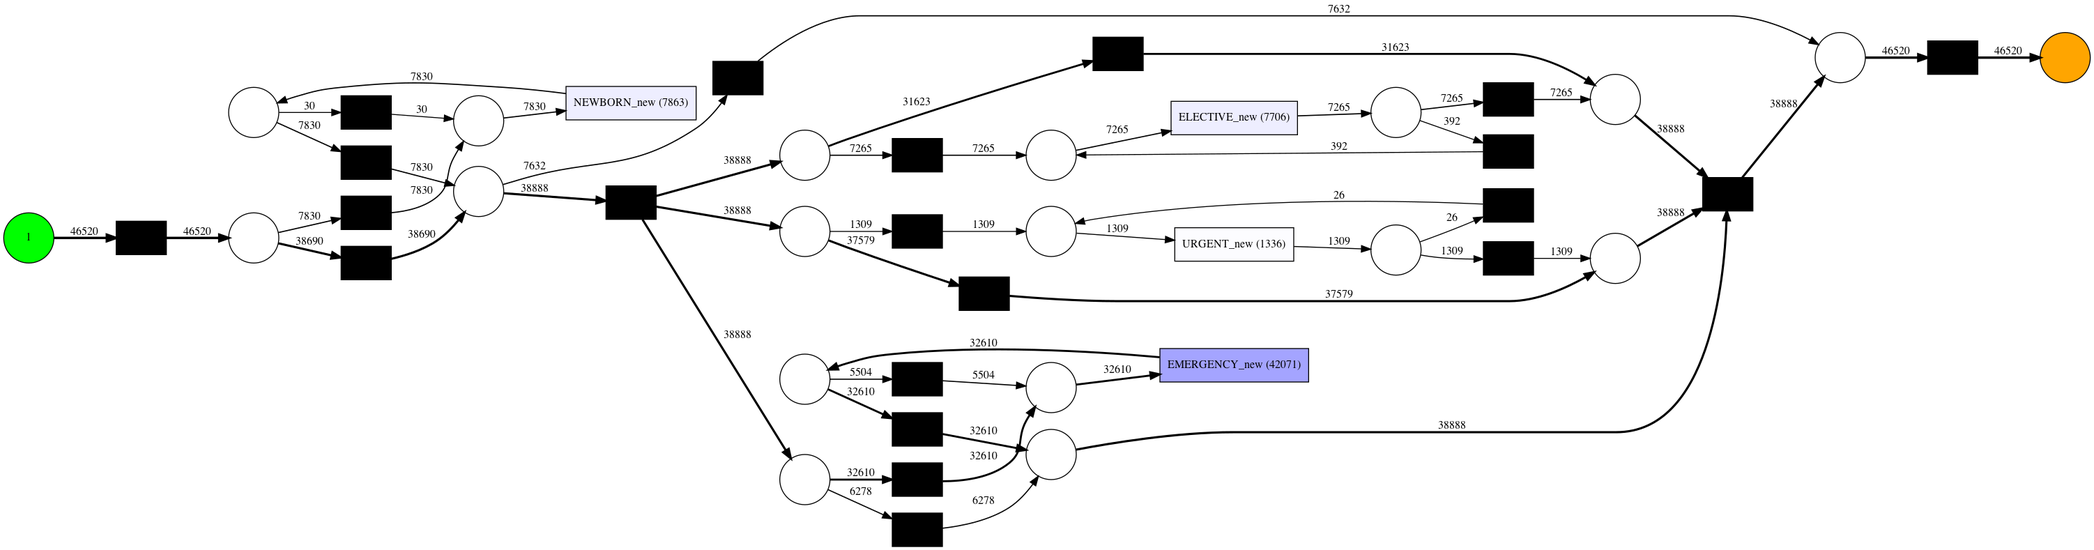
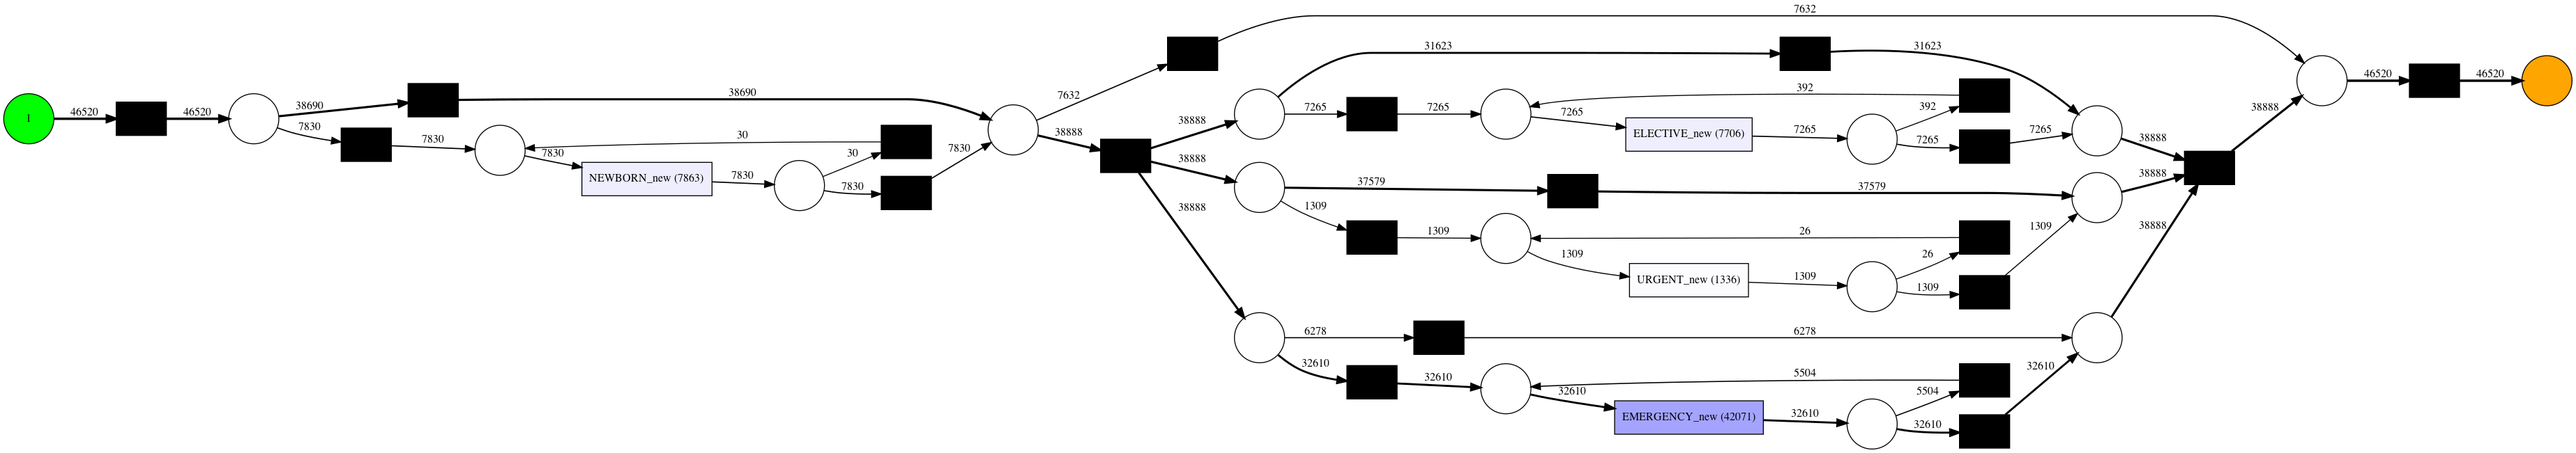
change report file process mining evaluate

diff --git a/synthetic_data_generating/models/process.py b/synthetic_data_generating/models/process.py
@@ -29,6 +29,7 @@ import os
 
 class Process:
     def __init__(self, event_data):
+        self.file = open("log/log.txt","a+")
         df = pm4py.format_dataframe(event_data, case_id='id', activity_key='event_type', timestamp_key='time')
         #df = dataframe_utils.convert_timestamp_columns_in_df(df)
         df["case:concept:name"]=df["case:concept:name"].astype("int64")
@@ -49,9 +50,9 @@ class Process:
         #
         #
         #self.tree = inductive_miner.apply_tree(self.event_data)
-        #tree = inductive_miner.apply_tree(self.event_data)
-        #gviz = pt_visualizer.apply(tree)
-        #pt_visualizer.view(gviz)
+        tree = inductive_miner.apply_tree(self.event_data)
+        gviz = pt_visualizer.apply(tree)
+        pt_visualizer.save(gviz,"image/process_tree.png")
         
         #self.net, self.initial_marking, self.final_marking=inductive_miner.apply(self.event_data)
         
@@ -84,7 +85,7 @@ class Process:
         #simulated_log = simulator.apply(self.net, self.initial_marking,self.final_marking, variant=simulator.Variants.BASIC_PLAYOUT, parameters={simulator.Variants.BASIC_PLAYOUT.value.Parameters.CASE_ID_KEY: n})
         simulated_log = simulator.apply(self.net, self.initial_marking,self.final_marking, variant=simulator.Variants.BASIC_PLAYOUT, parameters={simulator.Variants.BASIC_PLAYOUT.value.Parameters.NO_TRACES: n})
         self.draw_inductive_frequency(self.net, self.initial_marking,self.final_marking,simulated_log,"image/simulated_inductive_frequency.png")
-        
+        self.foot_print(simulated_log)
 
         # from pm4py.objects.process_tree import semantics
         # simulated_log = semantics.generate_log(self.tree, no_traces=100)
@@ -96,7 +97,6 @@ class Process:
         # parameters[montecarlo_simulation.Variants.PETRI_SEMAPH_FIFO.value.Parameters.PARAM_MAX_THREAD_EXECUTION_TIME] = 5
         # simulated_log, res = montecarlo_simulation.apply(self.event_data, self.net, self.initial_marking,self.final_marking, parameters=parameters)
         log = self.event_data
-        #log = xes_importer.apply(os.path.join("demo", "input_data", "running-example.xes"))
         dfg = dfg_discovery.apply(log, variant=dfg_discovery.Variants.FREQUENCY)
 
         sa = start_activities.get_start_activities(log)
@@ -112,18 +112,14 @@ class Process:
         from pm4py.algo.conformance.tokenreplay.algorithm import Variants
 
         parameters = {}
-        #parameters[montecarlo_simulation.Variants.PETRI_SEMAPH_FIFO.value.Parameters.PARAM_ENABLE_DIAGNOSTICS] = False
         parameters[montecarlo_simulation.Variants.PETRI_SEMAPH_FIFO.value.Parameters.PARAM_NUM_SIMULATIONS] = n
-        #parameters[montecarlo_simulation.Variants.PETRI_SEMAPH_FIFO.value.Parameters.PARAM_MAX_THREAD_EXECUTION_TIME] = 5
-        # perform the Montecarlo simulation with the arrival rate specified (the simulation lasts 5 secs)
-        parameters[montecarlo_simulation.Variants.PETRI_SEMAPH_FIFO.value.Parameters.PARAM_CASE_ARRIVAL_RATIO] = 10800
+        parameters[montecarlo_simulation.Variants.PETRI_SEMAPH_FIFO.value.Parameters.PARAM_CASE_ARRIVAL_RATIO] = ratio
         simulated_log, res = montecarlo_simulation.apply(log,net, im, fm , parameters=parameters)
-        #print("\n(Montecarlo - Petri net) case arrival ratio specified by the user")
-        #print(res["median_cases_ex_time"])
         print(res["total_cases_time"])
         net, initial_marking, final_marking = inductive_miner.apply(simulated_log)
         self.draw_inductive_frequency(net, initial_marking, final_marking,simulated_log,"image/simulated_dfg_inductive_frequency.png")
-        
+        self.foot_print(simulated_log)
+
         simulated_log = log_conversion.apply(simulated_log, variant=log_conversion.TO_DATA_FRAME)
         simulated_log = simulated_log.rename(columns={constants.CASE_CONCEPT_NAME:"id", xes_constants.DEFAULT_NAME_KEY:"event_type",
                              xes_constants.DEFAULT_TIMESTAMP_KEY:"time"})
@@ -149,9 +145,9 @@ class Process:
         #pm4py.view_dfg(dfg, start_activities, end_activities)
         start_activities = pm4py.get_start_activities(log)
         end_activities = pm4py.get_end_activities(log)
-        print("Start activities: {}\nEnd activities: {}".format(start_activities, end_activities))
+        self.file.write("Start activities: {}\nEnd activities: {}\n".format(start_activities, end_activities))
         fitness = replay_fitness_evaluator.apply(log, self.net, self.initial_marking, self.final_marking, variant=replay_fitness_evaluator.Variants.TOKEN_BASED)
-        print(fitness)
+        self.file.write("fitness:{}\n".format(fitness))
 
     def foot_print_dataframe(self, df_log):
         df = pm4py.format_dataframe(df_log, case_id='id', activity_key='event_type', timestamp_key='time')
@@ -177,36 +173,37 @@ class Process:
 
         fitness = evaluation.fp_fitness(fp_log, fp_simulation_data_log, conf_result)
         precision = evaluation.fp_precision(fp_log, fp_simulation_data_log)
-        # print("precision:{},fitness:{},conf_result:{}".format(precision,fitness,conf_result))
+        self.file.write("fp:precision:{},fitness:{},conf_result:{}\n".format(precision,fitness,conf_result))
         #end foot print evaluate
         #ALIGNMENT_BASED evaluate
         fitness = replay_fitness_evaluator.apply(log,self.net, self.initial_marking, self.final_marking, variant=replay_fitness_evaluator.Variants.TOKEN_BASED)
-        print("TOKEN_BASED.fitness:{}".format(fitness))
-        fitness = replay_fitness_evaluator.apply(log,self.net, self.initial_marking, self.final_marking, variant=replay_fitness_evaluator.Variants.ALIGNMENT_BASED)
-        print("ALIGNMENT_BASED.fitness:{}".format(fitness))
+        self.file.write("TOKEN_BASED.fitness:{}\n".format(fitness))
         #end ALIGNMENT_BASED evaluate
 
         #Precision
         prec = precision_evaluator.apply(log,self.net, self.initial_marking, self.final_marking, variant=precision_evaluator.Variants.ETCONFORMANCE_TOKEN)
-        print("ETCONFORMANCE_TOKEN.prec:{}".format(prec))
-        prec = precision_evaluator.apply(log,self.net, self.initial_marking, self.final_marking, variant=precision_evaluator.Variants.ALIGN_ETCONFORMANCE)
-        print("ALIGN_ETCONFORMANCE.prec:{}".format(prec))
+        self.file.write("prec:{}\n".format(prec))
         #end Precision
         #Generalization
         from pm4py.algo.evaluation.generalization import evaluator as generalization_evaluator
         gen = generalization_evaluator.apply(log, self.net, self.initial_marking, self.final_marking)
+        self.file.write("gen:{}\n".format(gen))
         #end Generalization
         #Simplicity
         from pm4py.algo.evaluation.simplicity import evaluator as simplicity_evaluator
         simp = simplicity_evaluator.apply(self.net)
+        self.file.write("simp:{}\n".format(simp))
         #end Simplicity
         
         #Earth Mover Distance
         from pm4py.objects.log.importer.xes import importer as xes_importer
         from pm4py.statistics.variants.log import get as variants_module
+        language = variants_module.get_language(self.event_data)
+        self.file.write("source:{}\n".format(language))
         language = variants_module.get_language(log)
-        print(language)
+        self.file.write("simulation:{}\n".format(language))
         #end Earth Mover Distance
+        self.file.flush()
 
 if __name__ == "__main__":
     #event_data = importCSV("running-example.csv")

diff --git a/synthetic_data_generating/generator.py b/synthetic_data_generating/generator.py
@@ -108,5 +108,6 @@ if __name__ == '__main__':
 
     g = Generator(join(base_path, '../demo/one_to_one'), join(base_path, '../demo/one_to_many'), config)
     g.train()
-    a, b = g.generate(10)
+    a, b = g.generate(10000)
+    
     print(1)

diff --git a/report.md b/report.md
@@ -54,7 +54,7 @@ Data for patients can be divived into two primary categories.
 * The similarity between the generated data and the training data can be evaluated through js divergence. The value is between 0 and 1, and the exact same calculation result is 0. There are int type data and float type data in the training data.  
 * For the generation of category data, data pre-processing and post-processing are required. For example, A, B, and C need to be converted into 1, 2, and 3 first, and then trained with GAN to convert the generated data into A, B and C according to Mapping relations.
 
-![image](gan_network.png)
+![image](image/gan_network.png)
 
 ### Clinical events data
 
@@ -70,13 +70,15 @@ Process Discovery algorithms want to find a suitable process model that describe
 
 In the following, we made up an overview to visualize the advantages and disadvantages of the mining algorithms.
 
-| Alpha                                               | Alpha+                                              | Heuristic                        | Inductive                          |
-| --------------------------------------------------- | --------------------------------------------------- | -------------------------------- | ---------------------------------- |
-| Cannot handle loops of length one and length two    | Can handle loops of length one and length two       | Takes frequency into account     | Can handle invisible tasks         |
-| Invisible and duplicated tasks cannot be discovered | Invisible and duplicated tasks cannot be discovered | Detects short loops              | Model is sound                     |
-| Discovered model might not be sound                 | Discovered model might not be sound                 | Does not guarantee a sound model | Most used process mining algorithm |
+| Alpha                                               | Alpha+                                              | Heuristic                        | Inductive                              |
+| --------------------------------------------------- | --------------------------------------------------- | -------------------------------- | -------------------------------------- |
+| Cannot handle loops of length one and length two    | Can handle loops of length one and length two       | Takes frequency into account     | Can handle invisible tasks             |
+| Invisible and duplicated tasks cannot be discovered | Invisible and duplicated tasks cannot be discovered | Detects short loops              | **Model is sound**                     |
+| Discovered model might not be sound                 | Discovered model might not be sound                 | Does not guarantee a sound model | **Most used process mining algorithm** |
 
-Clinical events have loops we choose **Inductive** miner algorithms.
+There may be multiple cycles in clinical events. In order to ensure the reliability of the algorithm, we choose to the **inductive** miner algorithm.
+
+
 
 ##### Process models structures
 
@@ -86,7 +88,7 @@ Process models modeled using Petri nets have a well-defined semantic: a process 
 
 ![inductive_frequency_pn](image/inductive_frequency_pn.png)
 
-Petri nets Include frequency 
+Petri nets with frequency 
 
 ###### Directly-Follows Graphs：
 
@@ -102,11 +104,11 @@ Directly-Follows Graphs, are introduced. Directly-Follows graphs are graphs wher
 
 ###### Process tree:
 
-A process tree is a process model and a compact abstract representation of a block-structured workflow net: a rooted tree in which leaf nodes are labeled with activities, and all other nodes are labeled with operators (from now on called operator nodes). All nodes have a unique identifier to distinguish leaves having the same label. Furthermore, process trees are sound by definition, therefore, correctness of the process model is guaranteed.
+A process tree is a process model and a compact abstract representation of a block-structured workflow net: a rooted tree in which leaf nodes are labeled with activities, and all other nodes are labeled with operators. All nodes have a unique identifier to distinguish leaves having the same label. Furthermore, process trees are sound by definition, therefore, the correctness of the process model is guaranteed.
 
+![process_tree](image/process_tree.png)
 
-
-#### Simulation
+#### 	
 
 ##### Playout of a Petri Net
 
@@ -114,17 +116,17 @@ A playout of a Petri net takes as input a Petri net along with an initial markin
 
 ![simulated Petri Net](image/simulated_inductive_frequency.png)
 
+Playout of a Petri Net event log of Petri Net with frequency
+
 ##### Monte Carlo Simulation
 
 A time-related simulation permits to know how probable is that a process execution is terminated after a given amount of time. This leads to a better estimation of Service Level Agreements, or a better identification of the process instances that are most likely to have an high throughput time. All this starts from a performance DFG.
 
-
-
-#### Playout of a DFG
-
-A playout operation on a directly-follows graph is useful to retrieve the traces that are allowed from the directly-follows graph. In this case, a trace is a set of activities visited in the DFG from the start node to the end node. We can assign a probability to each trace (assuming that the DFG represents a Markov chain).
-
 ![simulated dfg](image/simulated_dfg_inductive_frequency.png)
+
+Monte Carlo Simulation event log of Petri Net with frequency
+
+
 
 #### Extensive Playout of a Process Tree
 
@@ -132,15 +134,27 @@ An extensive playout operation permits to obtain entire path of the process mode
 
 
 
-### Process evaluation
+#### Process evaluation
 
-#### Replay Fitness
+**process discovery: The importance of fitness, precision, generalization and simplicity**
 
-The two variants of replay fitness are implemented as **Variants.TOKEN_BASED** and **Variants.ALIGNMENT_BASED** respectively.
+| Method                 | Precision | Fitness | Generalization | Simplicity |
+| ---------------------- | --------- | ------- | -------------- | ---------- |
+| Playout of a Petri Net | 0.9497    | 1.0     | 0.9831         | 0.6875     |
+| Monte Carlo Simulation | 0.9831    | 1.0     | 0.9356         | 0.6875     |
 
-### Precision
+**Replay evaluation**
 
-The two variants, ETConformance and Align-ETConformance, are available as **Variants.ETCONFORMANCE_TOKEN** and **Variants.ALIGN_ETCONFORMANCE** in the implementation respectively.
+#### Footprints
+
+![matrix](image/matrix.png)
+
+| Method                 | Precision | Fitness |
+| ---------------------- | --------- | ------- |
+| Playout of a Petri Net | 1.0       | 1.0     |
+| Monte Carlo Simulation | 1.0       | 0.99995 |
+
+Footprints function evaluation
 
 #### Event properties
 
@@ -170,7 +184,7 @@ Given event type, event properties can be combined into one tabular data table a
 
 ### Plan Framework
 
-![image](plan.jpg)  
+![image](image/plan.jpg)  
 
 # Reference
 
